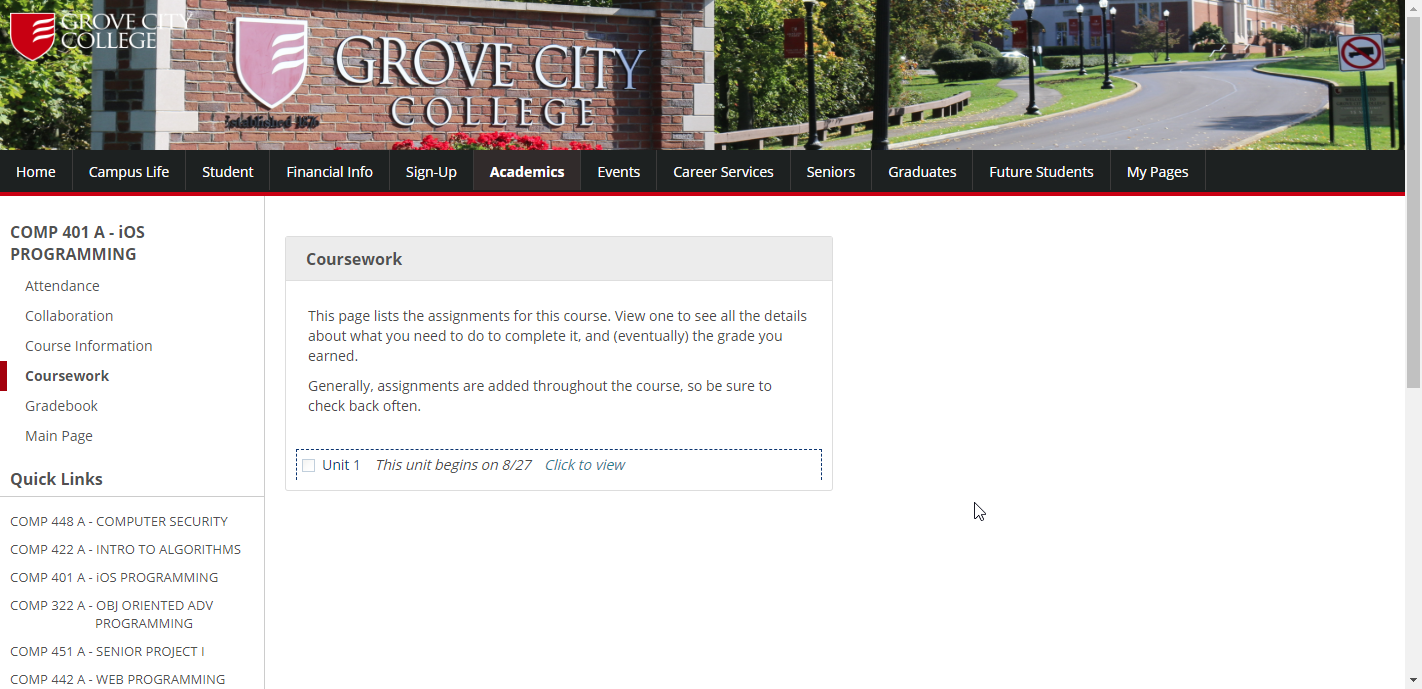
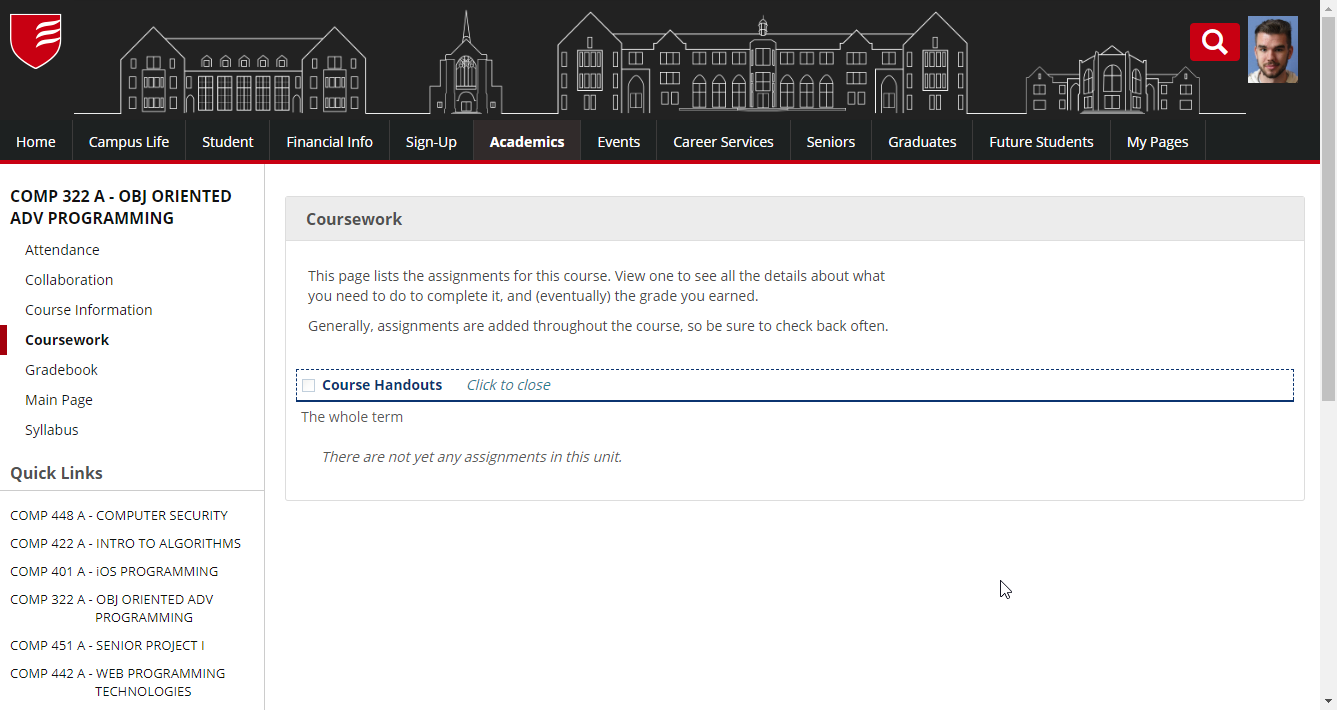
Update screenshot

diff --git a/README.MD b/README.MD
@@ -1,5 +1,3 @@
-![Grove City Skyline](./references/simple-header.png)
-
 **Ever wanted MyGCC to look *non*-awful?**
 
 ![Screenshot of my.gcc.edu with the plugin running](./screenshot.png)
